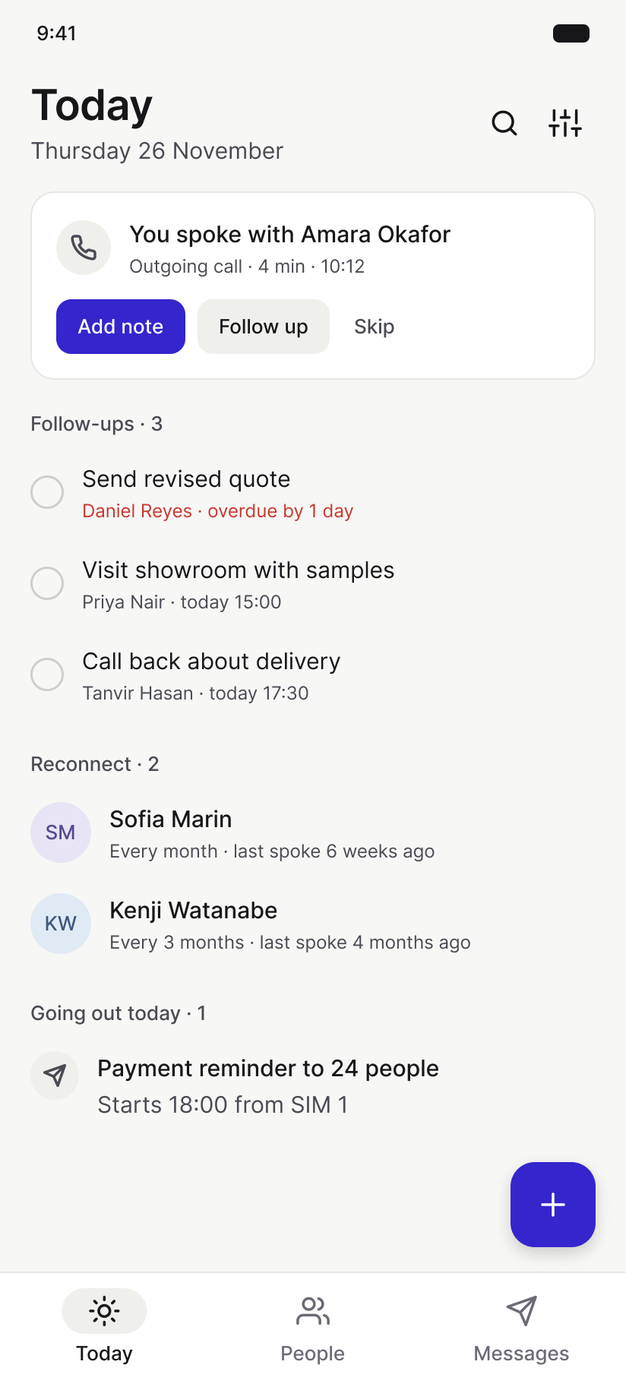
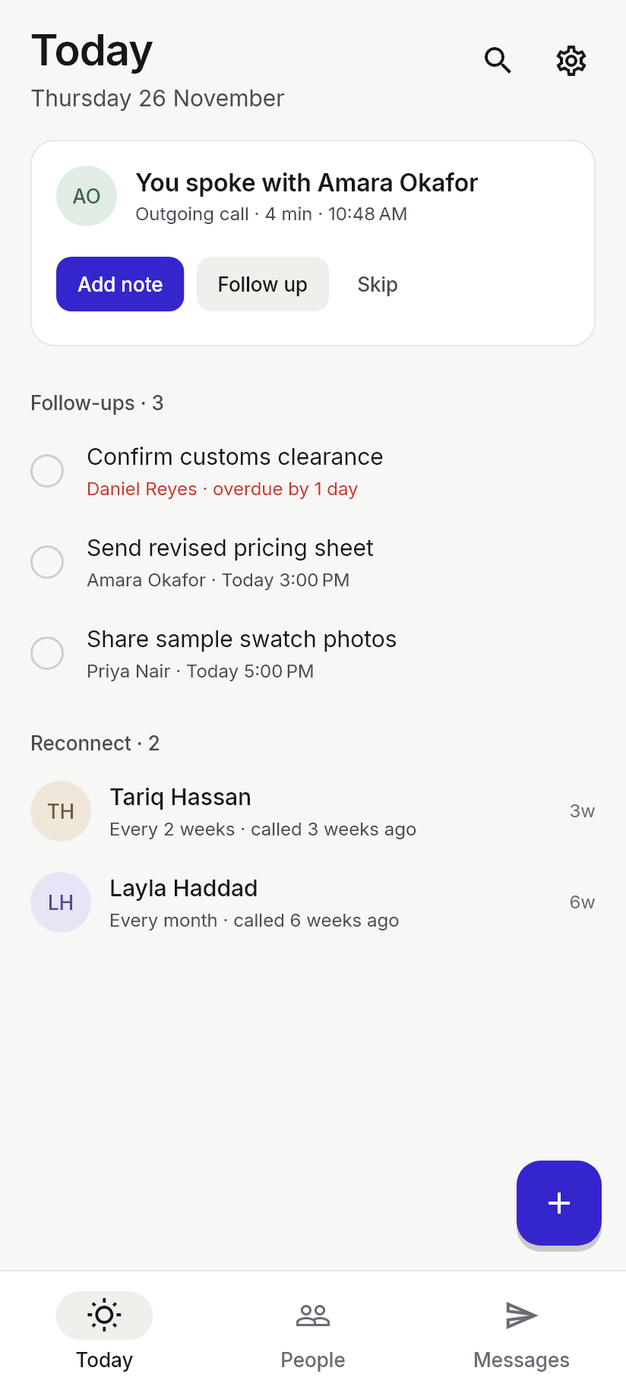
spec 15: landing page, part B

diff --git a/docs/index.html b/docs/index.html
@@ -35,7 +35,8 @@
           <li><a href="#privacy">Privacy</a></li>
           <li><a href="#install">Install</a></li>
         </ul>
-        <a class="btn btn-secondary-sm" href="https://github.com/tanzir71/git-pocket-crm">GitHub</a>
+        <a class="btn btn-secondary-sm nav-btn-desktop" href="https://github.com/tanzir71/git-pocket-crm">GitHub</a>
+        <a class="btn btn-secondary-sm nav-btn-mobile" href="https://github.com/tanzir71/git-pocket-crm/releases/latest/download/PocketCRM.apk">Download</a>
       </nav>
     </div>
   </header>
@@ -48,14 +49,16 @@
           <h1>Remember every conversation.<br>Follow up on time.</h1>
           <p class="lead">PocketCRM turns your phone's calls and messages into a history for each person. Add a note in seconds after a call or a visit, set the next step, and it comes back when it is due.</p>
           <div class="cta-row">
-            <a class="btn btn-primary" href="https://github.com/tanzir71/git-pocket-crm">Follow the build on GitHub</a>
-            <a class="btn btn-quiet" href="https://github.com/tanzir71/git-pocket-crm/releases">See milestone builds</a>
+            <a class="btn btn-primary" href="https://github.com/tanzir71/git-pocket-crm/releases/latest/download/PocketCRM.apk">Download for Android</a>
+            <a class="btn btn-quiet" href="https://github.com/tanzir71/git-pocket-crm">View source on GitHub</a>
           </div>
-          <p class="caption">Version 2 is being built in the open. Each milestone is published as it lands.</p>
+          <p class="caption">Installs from an APK file. Everything stays on your phone.</p>
         </div>
         <div class="phone-wrap">
           <div class="phone-frame">
             <picture>
+              <source srcset="assets/screen-today-dark.webp" media="(prefers-color-scheme: dark)" type="image/webp">
+              <source srcset="assets/screen-today-dark.png" media="(prefers-color-scheme: dark)" type="image/png">
               <source srcset="assets/screen-today.webp" type="image/webp">
               <img src="assets/screen-today.png" width="626" height="1393" alt="The Today screen: a prompt to note a call that just ended, three follow-ups, and two people to reconnect with.">
             </picture>
@@ -69,6 +72,8 @@
         <div class="phone-wrap">
           <div class="phone-frame phone-frame-sm">
             <picture>
+              <source srcset="assets/screen-after-call-dark.webp" media="(prefers-color-scheme: dark)" type="image/webp">
+              <source srcset="assets/screen-after-call-dark.png" media="(prefers-color-scheme: dark)" type="image/png">
               <source srcset="assets/screen-after-call.webp" type="image/webp">
               <img src="assets/screen-after-call.png" width="626" height="1393" loading="lazy" alt="The note sheet after a call, with the outcome, a note, and a follow-up set for tomorrow.">
             </picture>
@@ -159,6 +164,8 @@
         <div class="phone-wrap">
           <div class="phone-frame phone-frame-sm">
             <picture>
+              <source srcset="assets/screen-new-message-dark.webp" media="(prefers-color-scheme: dark)" type="image/webp">
+              <source srcset="assets/screen-new-message-dark.png" media="(prefers-color-scheme: dark)" type="image/png">
               <source srcset="assets/screen-new-message.webp" type="image/webp">
               <img src="assets/screen-new-message.png" width="626" height="1393" loading="lazy" alt="The message composer with a personalised reminder, a preview for one person, and the send time and pace.">
             </picture>
@@ -173,7 +180,7 @@
           <h2>It cannot connect to the internet</h2>
           <p class="privacy-copy">No account, no server, no analytics. The app does not hold Android's internet permission, so your calls, messages and notes have nowhere to go. Backups are files you keep, protected with a passphrase if you want one.</p>
           <div class="privacy-links">
-            <a href="https://github.com/tanzir71/git-pocket-crm/blob/main/android/app/src/main/AndroidManifest.xml">See the permission list</a>
+            <a href="https://github.com/tanzir71/git-pocket-crm/blob/main/tool/allowed_permissions.txt">See the permission list</a>
             <a href="https://github.com/tanzir71/git-pocket-crm">Read the source</a>
           </div>
         </div>
@@ -205,8 +212,8 @@
           <p>Google Play only lets an app read call and message history if it replaces your phone or SMS app. PocketCRM works beside the ones you already use, so it is published here instead.</p>
         </div>
         <div class="install-cta">
-          <a class="btn btn-primary" href="https://github.com/tanzir71/git-pocket-crm/releases">See milestone builds</a>
-          <p class="caption">Version 2.0 is not released yet.</p>
+          <a class="btn btn-primary" href="https://github.com/tanzir71/git-pocket-crm/releases/latest/download/PocketCRM.apk">Download for Android</a>
+          <p class="caption">Android only. Every release is on GitHub.</p>
         </div>
       </div>
     </section>

diff --git a/docs/styles.css b/docs/styles.css
@@ -209,6 +209,10 @@ img {
   line-height: 1.385;
 }
 
+.nav-btn-mobile {
+  display: none;
+}
+
 .btn-secondary-sm:hover {
   background-color: var(--subtle-hover);
 }
@@ -601,6 +605,14 @@ h3 {
 
   .nav-links {
     display: none;
+  }
+
+  .nav-btn-desktop {
+    display: none;
+  }
+
+  .nav-btn-mobile {
+    display: inline-flex;
   }
 
   .section {

diff --git a/handover/TEST-RESULTS.md b/handover/TEST-RESULTS.md
@@ -138,6 +138,12 @@ Record of automated test runs and Android emulator verification runs (date, imag
 - **Command:** Clean install via `adb install -r --no-streaming build/PocketCRM.apk`, `pm clear`, launched `MainActivity` -> verified Setup opened -> granted permissions via `adb` -> verified `5/5 Allowed` -> tapped `Continue` -> created contact `Amara Okafor` -> added note `"Release v2 verified"`.
 - **Outcome:** PASSED. Clean install opened directly to Setup, refreshed all 5 rows to `Allowed`, navigated to People, created contact, and saved/displayed the note cleanly in the R8 release build.
 
+## 2026-11-27 — Spec 15 part B (Landing page)
+
+- **Environment:** Host Windows 11, Python 3.13.17, Playwright Chromium, `curl`
+- **Command:** `python tool/og/render_landing.py && bash tool/check_landing.sh && bash tool/verify.sh`
+- **Outcome:** PASSED. Replaced all three phone screenshots with real-app light and dark captures (`626x1393` WebP q=82 + PNG fallback via `<picture>` and `prefers-color-scheme: dark`), regenerated `docs/og.png` from the real Today screenshot, and updated nav/hero/privacy/install links and copy to Part B (`Download for Android` -> `releases/latest/download/PocketCRM.apk`, `tool/allowed_permissions.txt`). Playwright audit confirmed 0 external network requests (6 same-origin requests only), 0 horizontal overflow at `320px` (`320/320`) and at `200%` font size on `390px` (`390/390`), and first-load payload of `154.3 KB` (`< 400 KB`). Visually compared `built-desktop.png`, `built-mobile.png`, `built-dark.png`, and `docs/og.png` against the design.
+
 
 
 

diff --git a/handover/DECISIONS.md b/handover/DECISIONS.md
@@ -99,6 +99,12 @@ Log of technical, dependency, and design choices made during implementation wher
 - **Permission allow-list (`tool/allowed_permissions.txt`):** Locked the merged release manifest to the exact 19 sorted permissions (including AndroidX/WorkManager/notification/picker declarations, with zero `android.permission.INTERNET`) enforced via `diff -u` in `tool/check_manifest.sh`.
 - **Fail-fast release signing:** Added an explicit `GradleException` guard in `android/app/build.gradle.kts` when any `*Release` task runs without `key.properties` so release builds never fall back to a debug key.
 
+## Spec 15 part B — Landing page (2026-11-27)
+
+- **Responsive nav CTA without JS:** Rendered two sibling `<a class="btn btn-secondary-sm">` links (`.nav-btn-desktop` `"GitHub"` and `.nav-btn-mobile` `"Download"`) toggled via the existing `max-width: 1039px` media query so the site remains 100% JavaScript-free.
+- **Real-app light & dark screenshots:** Captured the real `TodayScreen`, `AfterCallSheet`, and `NewMessageScreen` widgets at `2.0x` DPR (`824x1834`) with bundled Inter v4.1 and MaterialIcons fonts, resized to `626x1393` WebP (q=82, ~31–35 KB each) + PNG fallbacks, and wired dark variants via `<picture>` `media="(prefers-color-scheme: dark)"`.
+- **Copy audit against `UNVERIFIED.md`:** Verified every sentence on `docs/index.html` against the built app and `handover/UNVERIFIED.md`. Retained `"at the time you chose"` because exact-alarm scheduled sending under Doze and post-reboot was verified on the Android 14 emulator (Spec 09 & Spec 10).
+
 
 
 
